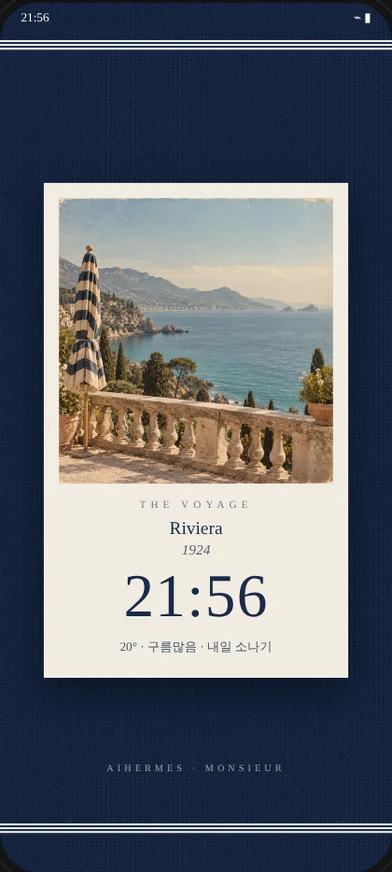
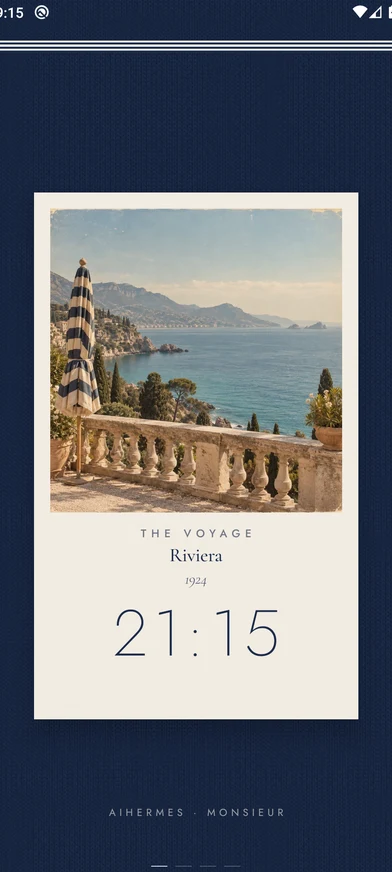
build-29 준비: LIBRARY 미디어 위 덩어리 올림(문장과 재생 막대 겹침), 테마 견본 새 표지로
Claude-Session: https://claude.ai/code/session_018aKyYtwF79YZ5v8zAUEZTr

diff --git a/app/src/main/java/com/kiouvici/monsieur/MediaPage.kt b/app/src/main/java/com/kiouvici/monsieur/MediaPage.kt
@@ -705,18 +705,18 @@ class MediaPage(ctx: Context, private val host: MediaHost) : FrameLayout(ctx) {
         whenLine = L.t("", Fonts.serifI(context), 17f, Style.ink(.7f)).also { L.add(it, 36f, 92f) }
         // 사진 모서리로 붙인 앨범아트
         val plate = FrameLayout(context).apply { setBackgroundColor(Color.WHITE); elevation = L.zf(3f); clipChildren = false }
-        L.add(plate, 86f, 134f, 240f, 240f)
+        L.add(plate, 86f, 118f, 240f, 240f)
         art = ArtView(context).also { plate.addView(it, LayoutParams(-1, -1).apply { val m = L.z(10f); setMargins(m, m, m, m) }) }
         val corner = Style.img(context, "th/photo_corner.webp")
         listOf(Triple(-1f, -1f, -45f), Triple(1f, -1f, 45f), Triple(-1f, 1f, -135f), Triple(1f, 1f, 135f)).forEach { (sx, sy, rot) ->
             val c = View(context).apply { background = Pic(corner, Pic.CONTAIN); rotation = rot; elevation = L.zf(4f) }
             val cx = if (sx < 0) 86f - 9f else 86f + 240f - 44f + 9f
-            val cy = if (sy < 0) 134f - 1f else 134f + 240f - 28f + 1f
+            val cy = if (sy < 0) 118f - 1f else 118f + 240f - 28f + 1f
             L.add(c, cx, cy, 44f, 28f); nowViews += c
         }
-        title = L.t("", Fonts.serifI(context), 14f, Style.ink(.65f), 0f, Gravity.CENTER).also { L.addLR(it, 36f, 36f, 386f) }
+        title = L.t("", Fonts.serifI(context), 14f, Style.ink(.65f), 0f, Gravity.CENTER).also { L.addLR(it, 36f, 36f, 370f) }
         sentence = L.t("", Fonts.serif(context), 25f, Style.INK, 0f, Gravity.CENTER).apply { setLineSpacing(L.zf(4f), 1f); maxLines = 3; ellipsize = android.text.TextUtils.TruncateAt.END }
-        L.addLR(sentence!!, 36f, 36f, 414f)
+        L.addLR(sentence!!, 36f, 36f, 396f)
         val pv = LineProg(context, Style.ink(.3f), Style.INK, L.zf(1f), L.zf(2f), marker = Style.img(context, "th/bookmark.webp"), markerW = L.zf(14f), markerH = L.zf(34f))
         L.addLR(pv, 29f, 29f, 476f, 38f); prog = { pv.p = it }
         t1 = L.t("", Style.jost(context, 400), 11f, Style.ink(.65f), .1f, Gravity.END).also { L.addLR(it, 36f, 36f, 489f) }
